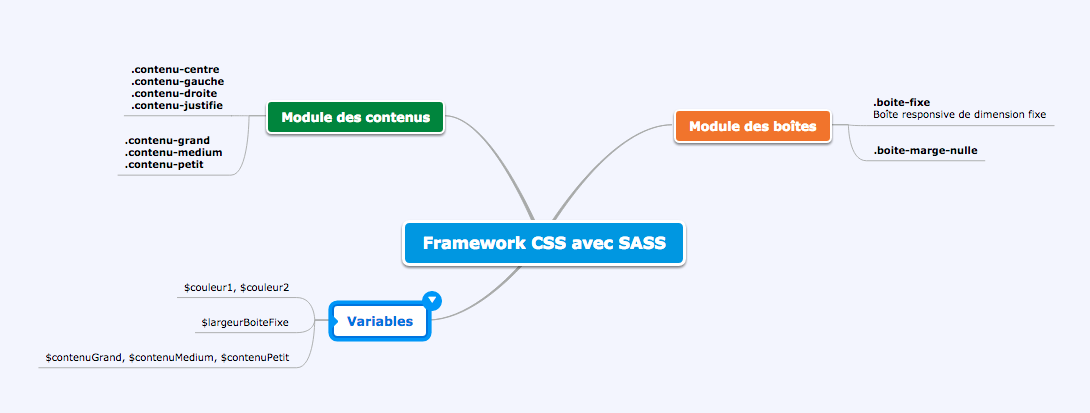
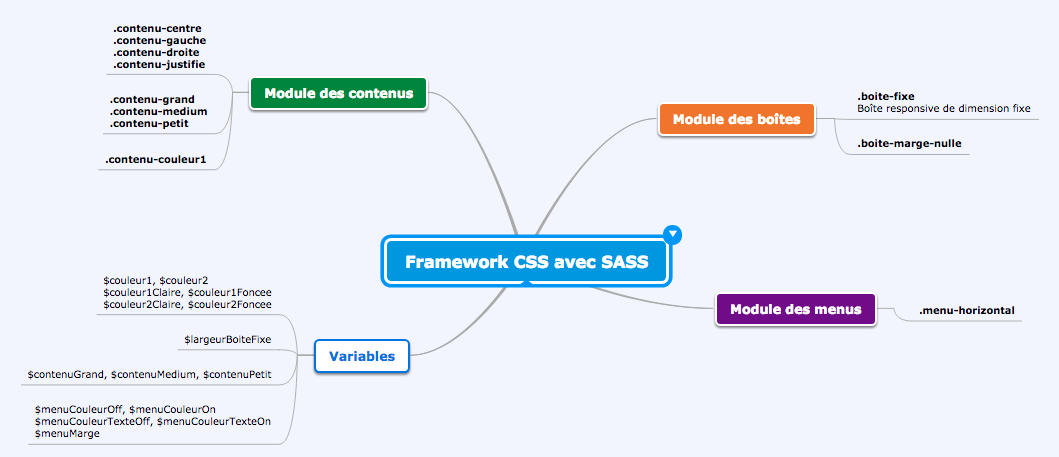
Intégration du .menu-horizontal

diff --git a/scss/framework/modules/_menus.scss b/scss/framework/modules/_menus.scss
@@ -1,0 +1,28 @@
+/*
+  ./scss/framework/modules/_menus.scss
+  Module des menus
+ */
+
+/* Types de menus */
+  .menu-horizontal > ul {
+    padding: 0;
+    list-style: none;
+    display: flex;
+  }
+
+  .menu-horizontal > ul > li:not(:first-child) {
+    margin-left: $menuMarge;
+  }
+
+  .menu-horizontal > ul > li > a {
+    background: $menuCouleurOff;
+    padding: 1em;
+    text-decoration: none;
+    color: $menuCouleurTexteOff;
+  }
+
+  .menu-horizontal > ul > li > a:hover,
+  .menu-horizontal > ul > li.actif > a {
+    background: $menuCouleurOn;
+    color: $menuCouleurTexteOn;
+  }
